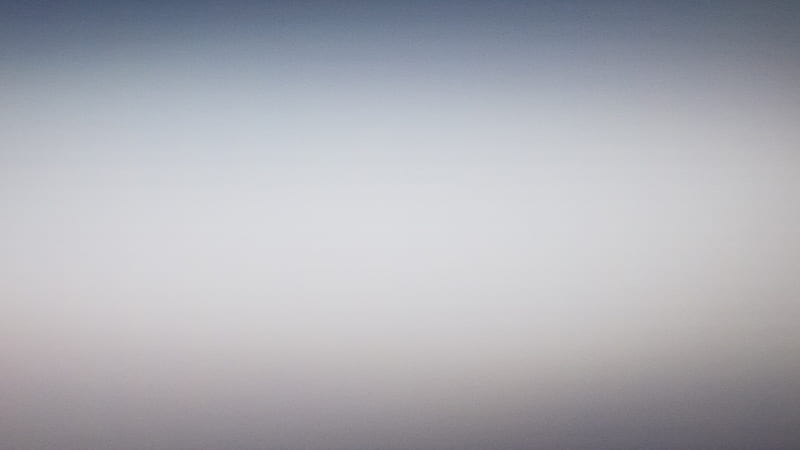
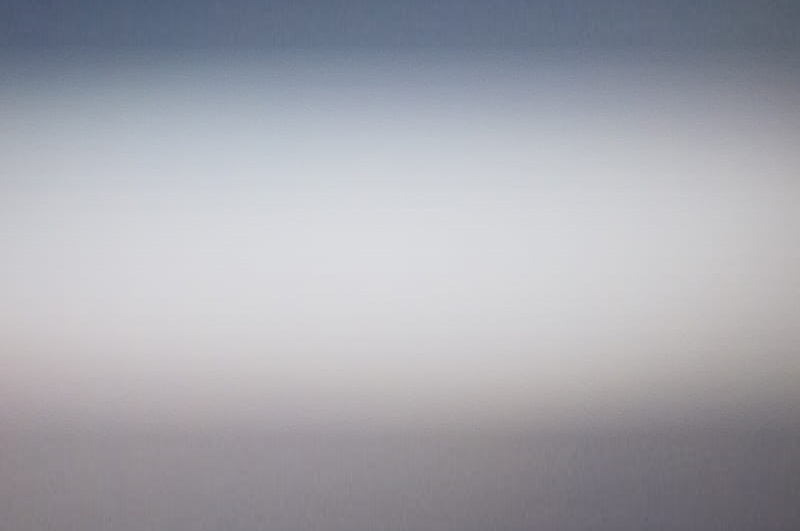
modificado plano de fundo

Changed region(s): [[0.0, 0.7156, 1.0, 0.9022]]

diff --git a/styles.css b/styles.css
@@ -1,5 +1,5 @@
 body {
-    background-image: url('img/gradient-black-grey-linear-3840x2160-c2-000000-778899-a-90-f-14.svg');
+    background-image: linear-gradient(to bottom, rgba(103, 111, 136, 0.8), rgba(63, 59, 59, 0.5));
     background-size: cover; 
     background-repeat: no-repeat; /* Evita a repetição da imagem */
     margin: 0;
@@ -20,6 +20,7 @@ body {
     height: auto; /* Altura automática para manter a proporção */
     border-radius: 50%; 
     border: 0.2em solid #dad9f3; /* Adiciona uma borda azul claro com largura de 0.5em */
+    overflow-x: hidden;
 }
 
 .profile img.hover {
@@ -195,3 +196,75 @@ footer {
     margin-right: 0; /* Remove a margem direita da última imagem */
 }
 
+
+
+
+
+
+
+
+
+
+
+
+
+
+
+
+
+
+
+
+
+
+
+/* INICIO: ICONES DENTRO DO RODAPÉ FINAL */
+.footersocials {
+    position: absolute;
+    bottom: -110%; /* Distância do rodapé */
+    right: 1%; /* Distância da direita */
+}
+.footersocials a { 
+    display: contents;
+    margin-left: 4%; /* Espaço entre os ícones */
+}
+
+.footersocials img {
+    width: 5%; /* Largura dos ícones */
+    height: auto; 
+}
+
+.footersocials img:hover {
+    transform: scale(1.3); /* Ao passar o mouse */
+}
+
+
+/* Media queries para tornar a página responsiva */
+/* Tablets e dispositivos móveis em orientação retrato */
+@media only screen and (max-width: 768px) {
+    .footersocials {
+        bottom: 5px;
+        right: 5px;
+    }
+    .footersocials a { 
+        margin-left: 2vw;
+    }
+    .footersocials img {
+        width: 8vw;
+    }
+}
+
+/* Smartphones em orientação retrato */
+@media only screen and (max-width: 480px) {
+    .footersocials {
+        bottom: 3px;
+        right: 3px;
+    }
+    .footersocials a { 
+        margin-left: 1vw;
+    }
+    .footersocials img {
+        width: 10vw;
+    }
+}
+/* FIM: ICONES DENTRO DO RODAPÉ FINAL */

diff --git a/index.html b/index.html
@@ -32,8 +32,6 @@
             </ul>
         </nav>
     </div>
-    
-       
     <div class="projetos">
         <section>
             <h3></h3>
@@ -47,11 +45,19 @@
             </div>
         </section>
     </div>
-        
-            <footer>
-                <h5></h5>
-            </footer>
-        </div>
-       
+
+<footer>
+     <div class="footersocials">
+        <a href="https://api.whatsapp.com/send?phone=SEUNUMERO" target="_blank">
+            <img src="img_footer/WPP_logo.png" alt="WhatsApp">
+        </a>
+        <a href="https://www.instagram.com/360giga/" target="_blank">
+            <img src="img_footer/ig_logo.png" alt="Instagram">
+        </a>
+         <a href="https://www.facebook.com/AcademiaGiga360/" target="_blank">
+            <img src="img_footer/fb_logo.png" alt="Facebook">
+        </a>
+    </div>
+</footer>
 </body>
 </html>
